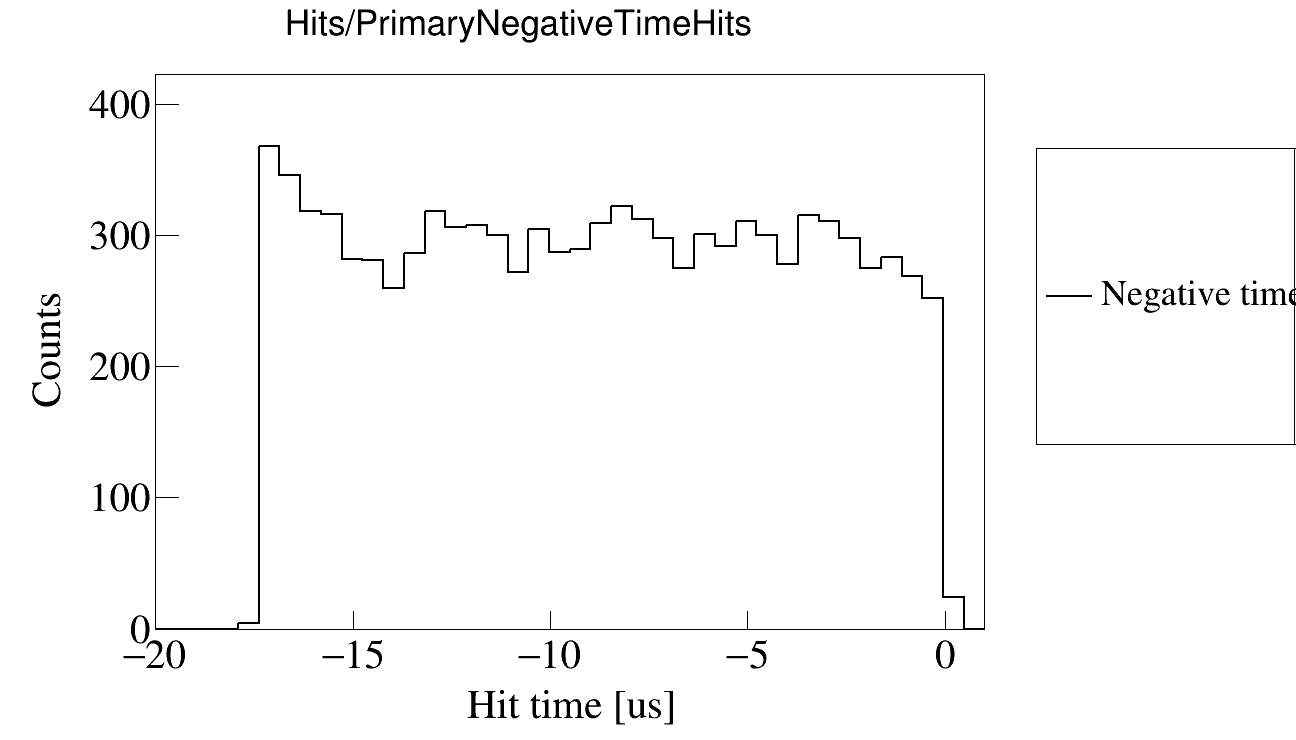
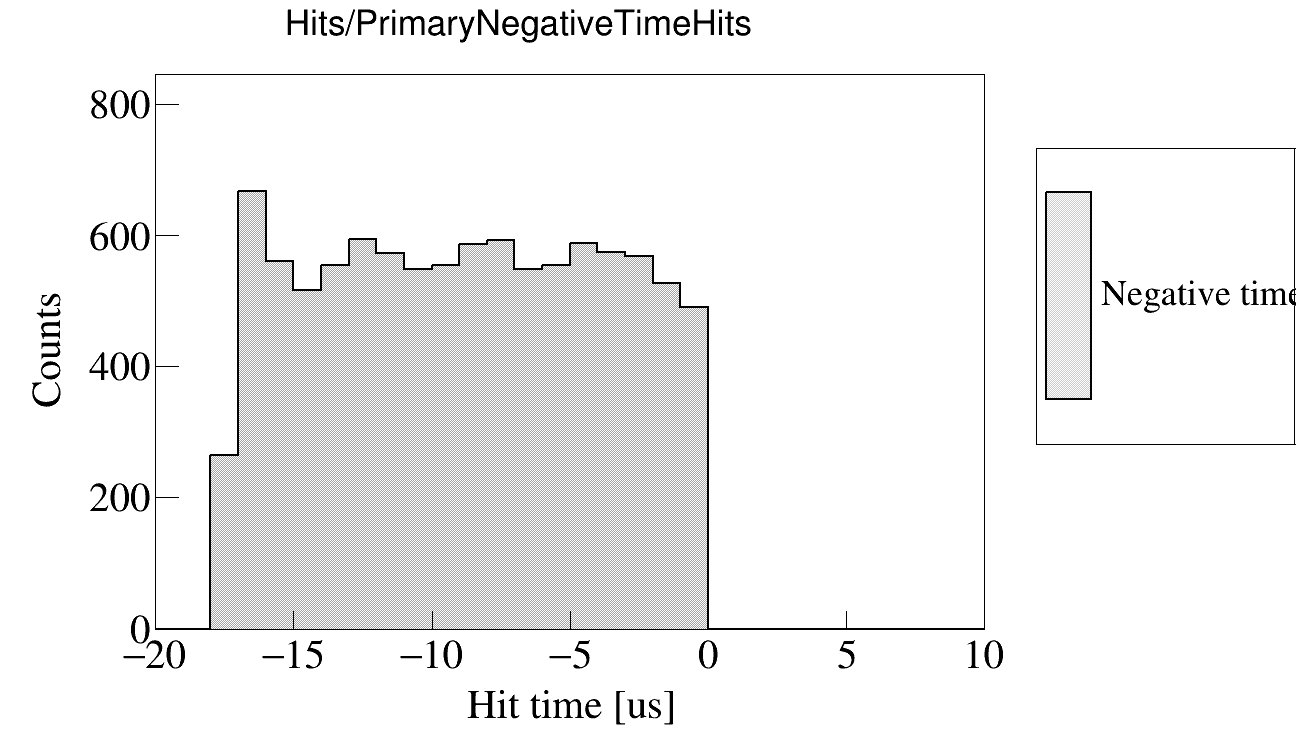
Study primary track hits

diff --git a/RecoClassify3Cat.cc b/RecoClassify3Cat.cc
@@ -514,7 +514,8 @@ void RecoClassify3Cat() {
     // Study unreconstructed hits //
     ////////////////////////////////
 
-    TH1D* hNegativeTimePrimaryHits = new TH1D("hNegativeTimePrimaryHits", "hNegativeTimePrimaryHits", 40, -20, 1);
+    TH1D* hNegativeTimePrimaryHits = new TH1D("hNegativeTimePrimaryHits", "hNegativeTimePrimaryHits", 30, -20, 10);
+    TH1D* hTimePrimaryHits         = new TH1D("hTimePrimaryHits", "hTimePrimaryHits", 60, -20, 300);
 
     TH1D* hUnRecoHitsAbs0p    = new TH1D("hUnRecoHitsAbs0p", "hUnRecoHitsAbs0p", 25, 0, 50);
     TH1D* hUnRecoHitsAbsNp    = new TH1D("hUnRecoHitsAbsNp", "hUnRecoHitsAbsNp", 25, 0, 50);
@@ -907,6 +908,7 @@ void RecoClassify3Cat() {
                 foundHitNegativeTime = true;
                 hNegativeTimePrimaryHits->Fill(fHitT->at(hitWC2TPCKey->at(i)));
             }
+            hTimePrimaryHits->Fill(fHitT->at(hitWC2TPCKey->at(i)));
         }
         if (foundHitNegativeTime) numEventsPrimaryHitNegativeTime++;
 
@@ -2525,7 +2527,8 @@ void RecoClassify3Cat() {
         {hLargeHitClusterAbs0p, hLargeHitClusterAbsNp, hLargeHitClusterMuon, hLargeHitClusterElectron, hLargeHitClusterScatter, hLargeHitClusterChExch, hLargeHitClusterOther},
         {hUnRecoHitsAbs0p, hUnRecoHitsAbsNp, hUnRecoHitsMuon, hUnRecoHitsElectron, hUnRecoHitsScatter, hUnRecoHitsChExch, hUnRecoHitsOther},
         {hNumClustersAbs0p, hNumClustersAbsNp, hNumClustersMuon, hNumClustersElectron, hNumClustersScatter, hNumClustersChExch, hNumClustersOther},
-        {hNegativeTimePrimaryHits}
+        {hNegativeTimePrimaryHits},
+        {hTimePrimaryHits}
     };
 
     std::vector<std::vector<TString>> PlotLabelGroups = {
@@ -2580,7 +2583,8 @@ void RecoClassify3Cat() {
         {"Abs 0p", "Abs Np", "Muon", "Electron", "Scatter", "Ch. exch.", "Other"},
         {"Abs 0p", "Abs Np", "Muon", "Electron", "Scatter", "Ch. exch.", "Other"},
         {"Abs 0p", "Abs Np", "Muon", "Electron", "Scatter", "Ch. exch.", "Other"},
-        {"Negative time hits"}
+        {"Negative time hits"},
+        {"All time hits"}
     };
 
     std::vector<TString> PlotTitles = {
@@ -2635,7 +2639,8 @@ void RecoClassify3Cat() {
         "Hits/NumLargeClusters",
         "Hits/UnReconstructedHits",
         "Hits/NumClusters",
-        "Hits/PrimaryNegativeTimeHits"
+        "Hits/PrimaryNegativeTimeHits",
+        "Hits/PrimaryTimeHits"
     };
 
     std::vector<TString> XLabels = {
@@ -2690,6 +2695,7 @@ void RecoClassify3Cat() {
         "Number of large clusters",
         "Unreconstructed hits",
         "# of clusters",
+        "Hit time [us]",
         "Hit time [us]"
     };
 
@@ -2741,6 +2747,7 @@ void RecoClassify3Cat() {
         "Counts",
 
         // Unreconstructed hits
+        "Counts",
         "Counts",
         "Counts",
         "Counts",
@@ -2800,7 +2807,8 @@ void RecoClassify3Cat() {
         true,
         true,
         true,
-        false
+        true,
+        true
     };
 
     std::vector<std::vector<bool>> PlotsAsPoints = {
@@ -2855,6 +2863,7 @@ void RecoClassify3Cat() {
         {false, false, false, false, false, false, false},
         {false, false, false, false, false, false, false},
         {false, false, false, false, false, false, false},
+        {false},
         {false}
     };
 
